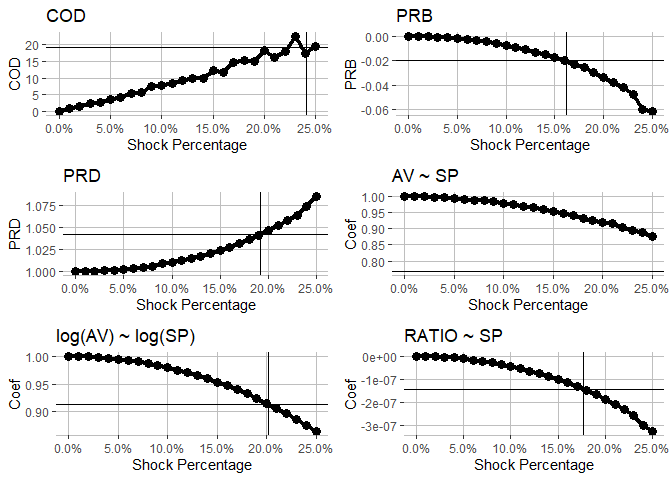
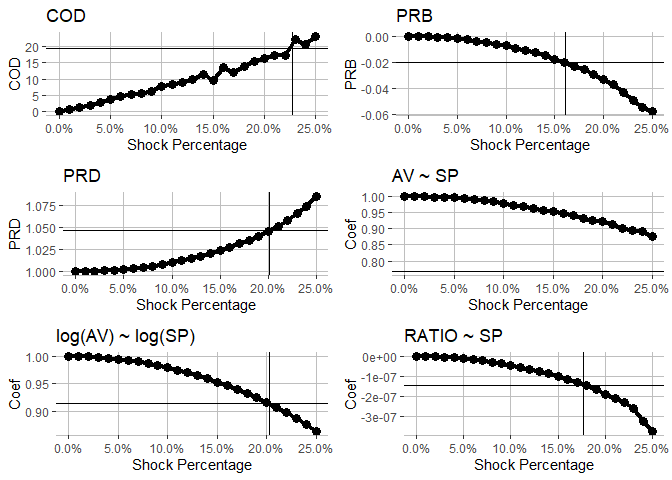
fixing code to create tax year

diff --git a/README.md b/README.md
@@ -165,11 +165,11 @@ ratios <-
 stats <- cmfproperty::calc_iaao_stats(ratios)
 head(stats)
 #>       N     COD COD_SE    PRD PRD_SE     PRB PRB_SE  q1_ratio median_ratio
-#> 1 51879 17.3999 6.2998 1.0509 0.0164 -0.0514 0.0012 0.7758364    0.9093448
-#> 2 62852 19.3270 6.4174 1.0726 0.0027 -0.0462 0.0011 0.7705720    0.9001375
-#> 3 65961 19.0936 6.1161 1.0540 0.0022 -0.0269 0.0011 0.7428108    0.8732099
-#> 4 65298 19.2335 5.9038 1.0097 0.0062  0.0133 0.0010 0.7470336    0.8856039
-#> 5 62041 18.2744 4.5088 1.0236 0.0023  0.0098 0.0010 0.7681042    0.9035000
+#> 1 51879 19.2260 5.3845 1.0740 0.0038 -0.0514 0.0012 0.7758364    0.9093448
+#> 2 62852 20.7060 7.8864 1.0686 0.0046 -0.0462 0.0011 0.7705720    0.9001375
+#> 3 65961 19.6248 5.7550 1.0454 0.0049 -0.0269 0.0011 0.7428108    0.8732099
+#> 4 65298 18.4255 5.9601 1.0133 0.0047  0.0133 0.0010 0.7470336    0.8856039
+#> 5 62041 18.5636 5.2609 1.0201 0.0024  0.0098 0.0010 0.7681042    0.9035000
 #>   q3_ratio q1_sale median_sale q3_sale q1_assessed_value median_assessed_value
 #> 1 1.057180  148000      230000  375000          136670.0                213430
 #> 2 1.060422  148000      229900  365000          133940.0                209150
@@ -396,7 +396,7 @@ cmfproperty::make_report(ratios,
 #>   |                                                                              |......................................................................| 100%
 #>   ordinary text without R code
 #> output file: report.knit.md
-#> "C:/Program Files/RStudio/bin/pandoc/pandoc" +RTS -K512m -RTS report.utf8.md --to html4 --from markdown+autolink_bare_uris+tex_math_single_backslash+smart --output pandoc8207fd86de4.html --email-obfuscation none --self-contained --standalone --section-divs --table-of-contents --toc-depth 2 --variable toc_float=1 --variable toc_selectors=h1,h2 --variable toc_collapsed=1 --variable toc_smooth_scroll=1 --variable toc_print=1 --template "C:\Users\erhla\Documents\R\win-library\3.6\rmarkdown\rmd\h\default.html" --no-highlight --variable highlightjs=1 --number-sections --variable "theme:sandstone" --include-in-header "C:\Users\erhla\AppData\Local\Temp\RtmpGMvxfl\rmarkdown-str82033a46de5.html" --mathjax --variable "mathjax-url:https://mathjax.rstudio.com/latest/MathJax.js?config=TeX-AMS-MML_HTMLorMML" --lua-filter "C:/Users/erhla/Documents/R/win-library/3.6/rmarkdown/rmd/lua/pagebreak.lua" --lua-filter "C:/Users/erhla/Documents/R/win-library/3.6/rmarkdown/rmd/lua/latex-div.lua" --filter "C:/Program Files/RStudio/bin/pandoc/pandoc-citeproc.exe"
+#> "C:/Program Files/RStudio/bin/pandoc/pandoc" +RTS -K512m -RTS report.utf8.md --to html4 --from markdown+autolink_bare_uris+tex_math_single_backslash+smart --output pandoc8ec32e81839.html --email-obfuscation none --self-contained --standalone --section-divs --table-of-contents --toc-depth 2 --variable toc_float=1 --variable toc_selectors=h1,h2 --variable toc_collapsed=1 --variable toc_smooth_scroll=1 --variable toc_print=1 --template "C:\Users\erhla\Documents\R\win-library\3.6\rmarkdown\rmd\h\default.html" --no-highlight --variable highlightjs=1 --number-sections --variable "theme:sandstone" --include-in-header "C:\Users\erhla\AppData\Local\Temp\Rtmpm65GBs\rmarkdown-str8ec7a7c416.html" --mathjax --variable "mathjax-url:https://mathjax.rstudio.com/latest/MathJax.js?config=TeX-AMS-MML_HTMLorMML" --lua-filter "C:/Users/erhla/Documents/R/win-library/3.6/rmarkdown/rmd/lua/pagebreak.lua" --lua-filter "C:/Users/erhla/Documents/R/win-library/3.6/rmarkdown/rmd/lua/latex-div.lua" --filter "C:/Program Files/RStudio/bin/pandoc/pandoc-citeproc.exe"
 #> 
 #> Output created: C:/Users/erhla/Desktop//Cook County, Illinois.html
 #> [1] "Report created at C:/Users/erhla/Desktop//Cook County, Illinois.html"
